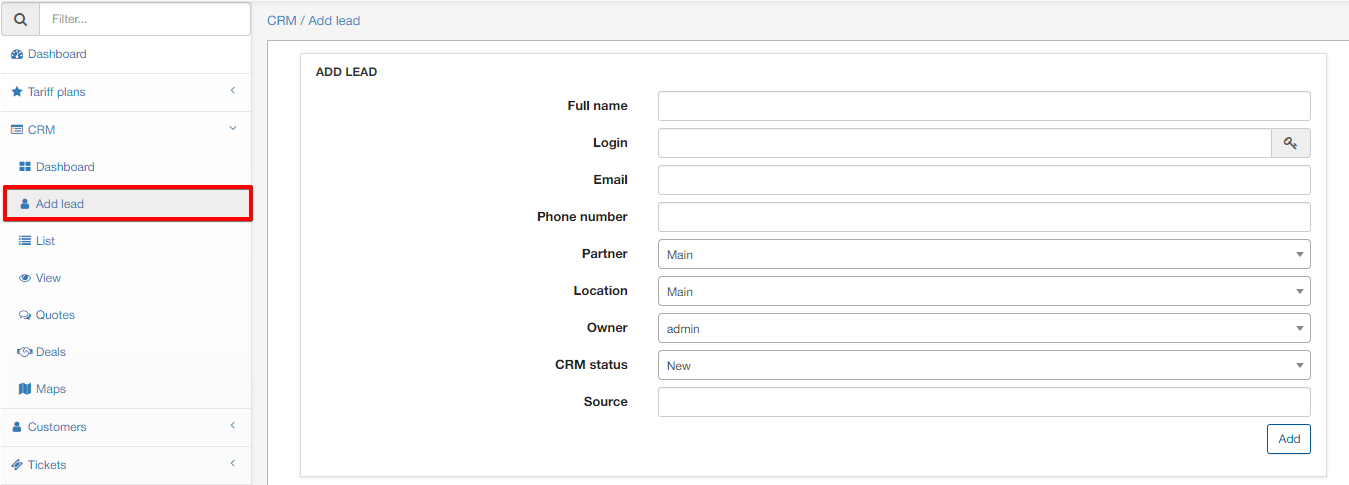
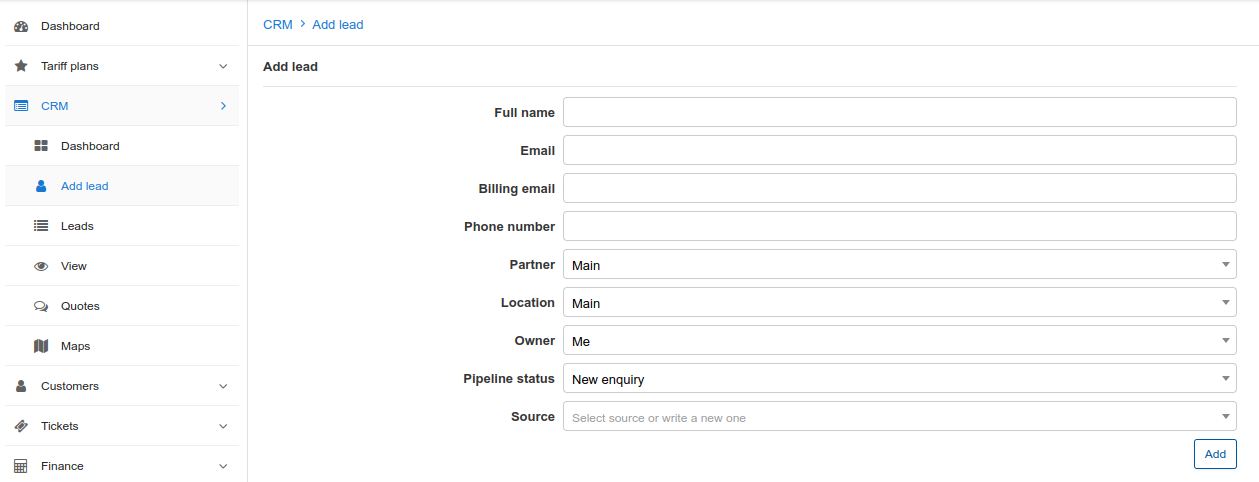
upd info related to CRM: Complete redesigned the Lead page – comments, communication, deals and funnel stages adde

diff --git a/files/en/crm/leads/leads.md b/files/en/crm/leads/leads.md
@@ -2,81 +2,118 @@ Leads
 =======
 A lead is a person or business who may eventually become a client. Leads are the central part of the CRM that binds all other functions together.
 
-Our first step is to **Add a new lead** - here we will specify all the details pertaining to the prospective customer (Owner, CRM Status and Source). The information added here, will also be used when converting from a lead to a customer.
+Our first step is to **Add a new lead** - here we will specify all the details pertaining to the prospective customer (Owner, Pipeline status and Source). The information added here, will also be used when converting from a lead to a customer.
 
 ![Lead add](lead_add.png)
 
 **Full name** - Names and surname of the lead<br>
-**Login** - Username used to sign into the customer portal<br>
 **Email** - Email address(es) of the lead, multiple addresses supported and separated by comma ","<br>
-**Phone number** - contact number(s) of the lead, multiple numbers supported and seperated by comma ","<br>
+**Billing email** - Email address(es) of the lead, only for billing correspondence, if no address is specified then the main email will be used, multiple addresses supported and separated by comma ","<br>
+**Phone number** - contact number(s) of the lead, multiple numbers supported and separated by comma ","<br>
 **Partner** - the partner the lead will belong to in the list of partners<br>
 **Location** - the location the lead will belong to in the list of locations<br>
 **Owner** - the administrator that will be responsible for the lead<br>
-**CRM status** - the status of the lead (stage in the process)<br>
+**Pipeline status** - the status of the lead (stage in the process). The available statuses for lead: New enquiry, Qualification, Activation, Won, Lost.<br>
 **Source** - where/what/how the lead obtained/received/gained interest or information about the company<br>
 
 
- Persons interested in signing up for a subscription can also be referred to the customer portal where, they can sign up by means of a registration form with relevant details required to contact them.
+ Persons interested in signing up for a subscription can also be referred to the [customer portal](/configuration/main_configuration/portal/portal.md) where, they can sign up by means of a registration form with relevant details required to contact them.
 
  ![Portal reg](portal_registration.png)
 
  ![Portal](social_registration.png)
 
-The leads list is where we'll find a complete list of all "My leads" (default view) - these are the leads which the current administrator is responsible for.
+ ![Portal](social_registration1.png)
 
- However, you can to change the list of leads to display, by selecting a category from the drop down list to view specific leads thereof. We also have the option to filter leads according to several fields in the filter tab ![Filter](filter_icon.jpg)
+The complete list of the leads is available in CRM ⟶ Leads.
 
-![Leads list](leads_list.jpg)
+However, you can to change the list of leads to display, by selecting the necessary category (Lead condition, Quick access, Pipeline) from the drop down lists to view specific leads thereof. We also have the option to filter leads according to ID / Full name / Phone number / Email / Date added fields in the filter tab ![Filter](filter_icon.jpg)
+
+![Leads list](leads_list.png)
+
+Also, we can switch current table view of leads into workflow
+![Leads workflow](leads_workflow.png)
 
 Next, we can view a lead by clicking on their full name/ID - this will open the lead page, where all the details relevant to the lead can be defined or edited.
 
-![Leads view](leads_view.jpg)
+![Leads view](leads_view.png)
 
 In the leads information page, all details will be entered as per a normal customer except information regarding to a service.
 
 CRM specific details:
-- Score - A scoring function that can be used to score leads based on popularity.
-- Last contacted - time and date feature to record when the lead was last contacted.
-- CRM status - Status/level in the process the of lead (Status's can be customized within Config / CRM / Lead Stages)
-- Owner - the administrator who is responsible for the lead.
-- Source - Where the lead originates from or discovered the product/company.
-- Notifications - Notifications sent to the administrators regarding the lead, also shows as upcoming follow-ups on the dashboard.
 
+- *Source* - Where the lead originates from or discovered the product/company.
+- *Score* - A scoring function that can be used to score leads based on popularity.
+- *Type of billing* - option allows to choose between reccuring and prepaid (custom) billing.
+- *Date added* - the date when the lead was added into system.
+- *Comments / Tasks* - the panel with scheduled tasks for current lead.
+- *Communication* - the panel with the history of communication with lead.
+- *Maps* - the visual map based on the coordinates in Geo data field.
+- *Recent activities* - the timeline shows us live information about all changes of lead profile in system.
 
- All changes made to the selected lead can be viewed in the recent activities tab at the bottom of the page. Where comments can be added with customizable icons/color schemes.
+In the recent activities tab at the bottom of the page we can add and schedule the customizable comments as well.
 
-![Leads Recent Activities](lead_recent.jpg)
+![Leads Recent Activities](lead_recent.png)
 
-![Leads view](lead_comment.jpg)
+![Leads view](lead_comment.png)
 
-In the **Actions** drop-down list found in the information page of the selected lead, we can access the following functions:
-- Creating a message, which will be sent to the customer (can be processed with preconfigured template)
-- Delete the lead
-- Convert the lead - Convert the lead into a customer (See conversion process below)
-- Create task - Creates a task related to the lead (directs to [scheduling a task](scheduling/scheduling.md))
-- List of tasks - List all tasks related to lead
+On the top sidebar of information page of the selected lead, the following functions are available:
+![Top sidebar](top_sidebar.png)
 
-![Leads actions](lead_actions.jpg)
+**Lead owner change**
+The drop-down menu where we can change the lead owner
+
+![Lead owner change](owner_change.png)
+
+**Deal value/comment change**
+The option to change deal value/comment
+
+![Deal comment](deal_comment.png)
+![Deal comment 1](deal_comment1.png)
+
+**Actions**
+- *Creating a message*, which will be sent to the customer (can be processed with preconfigured template)
+- *Delete the lead*
+
+![Action button](action_button.png)
+
+**Tasks**
+- *Create task* - Creates a task related to the lead (directs to [scheduling a task](scheduling/scheduling.md))
+- *List of tasks* - List all tasks related to lead
+
+![Tasks button](tasks_button.png)
+
+**Tickets**
+- *Create* - creates ticket linked to the lead (directs to [tickets](/tickets/tickets.md))
+- *All tickets* / *Opened* - redirects to *Tickets → List new & open* related to current lead
+- *Closed* - redirects to *Tickets → List of closed* related to current lead
+
+![Tickets button](tickets_button.png)
+
+- *Convert* button - convert the lead into a customer (See conversion process below).
+- *Save* button - save the changes on lead information page.
+
+**Pipeline status bar**
+Status/level in the process the of lead (Status types can be customized in Config → CRM → Leads pipeline)
+
+![Pipeline status](pipeline_status.png)
+
 
 ## Converting a lead to a customer
 
 Our main objective for the CRM is to achieve converting prospective customers into subscribers of our services.
 
-We can choose to convert leads to customers by accessing the actions tab and clicking **Convert** .
+We can choose to convert leads to customers by accessing the information tab and clicking on **Convert** button.
 
 This will initiate the conversion process, consisting of three steps.
 
 1. **Select the quote/s** - quotes that will be used to create the customer's services. (The services quoted and agreed upon).
 
-![Leads Step 1](conversion_step1.jpg)
+![Leads Step 1](conversion_step1.png)
 
-2. **Customer information** - choose which type of conversion we want to use, `create active customer and invoice` or `create inactive customer and proforma invoice`. We can choose to complete the conversion within this step by clicking *convert now*, skipping the services step, or continue to add services existing on the customers quote.
-![Leads Step 2](conversion_step2.jpg)
+2. **Customer information** - choose which type of conversion we want to use, `create active customer`, `create active customer and invoice` or `create new customer and proforma invoice`. We can choose to complete the conversion within this step by clicking *convert now*, skipping the services step, or continue to add services existing on the customers quote.
+![Leads Step 2](conversion_step2.png)
 
 3. **Services** - The final step, allowing us to edit the services of the quote we selected in step 1.
 Once all details have been entered, we can complete the process by clicking on *convert to customer*.
-![Leads Step 3](conversion_step3.jpg)
-
-The leads module is also linked to the support system whereby you can log new tickets on behalf of the customer or view open or closed tickets linked to them. You can do this by navigating to the Support drop-down as shown below:
-![Lead Support](leads_support.jpg)
+![Leads Step 3](conversion_step3.png)
